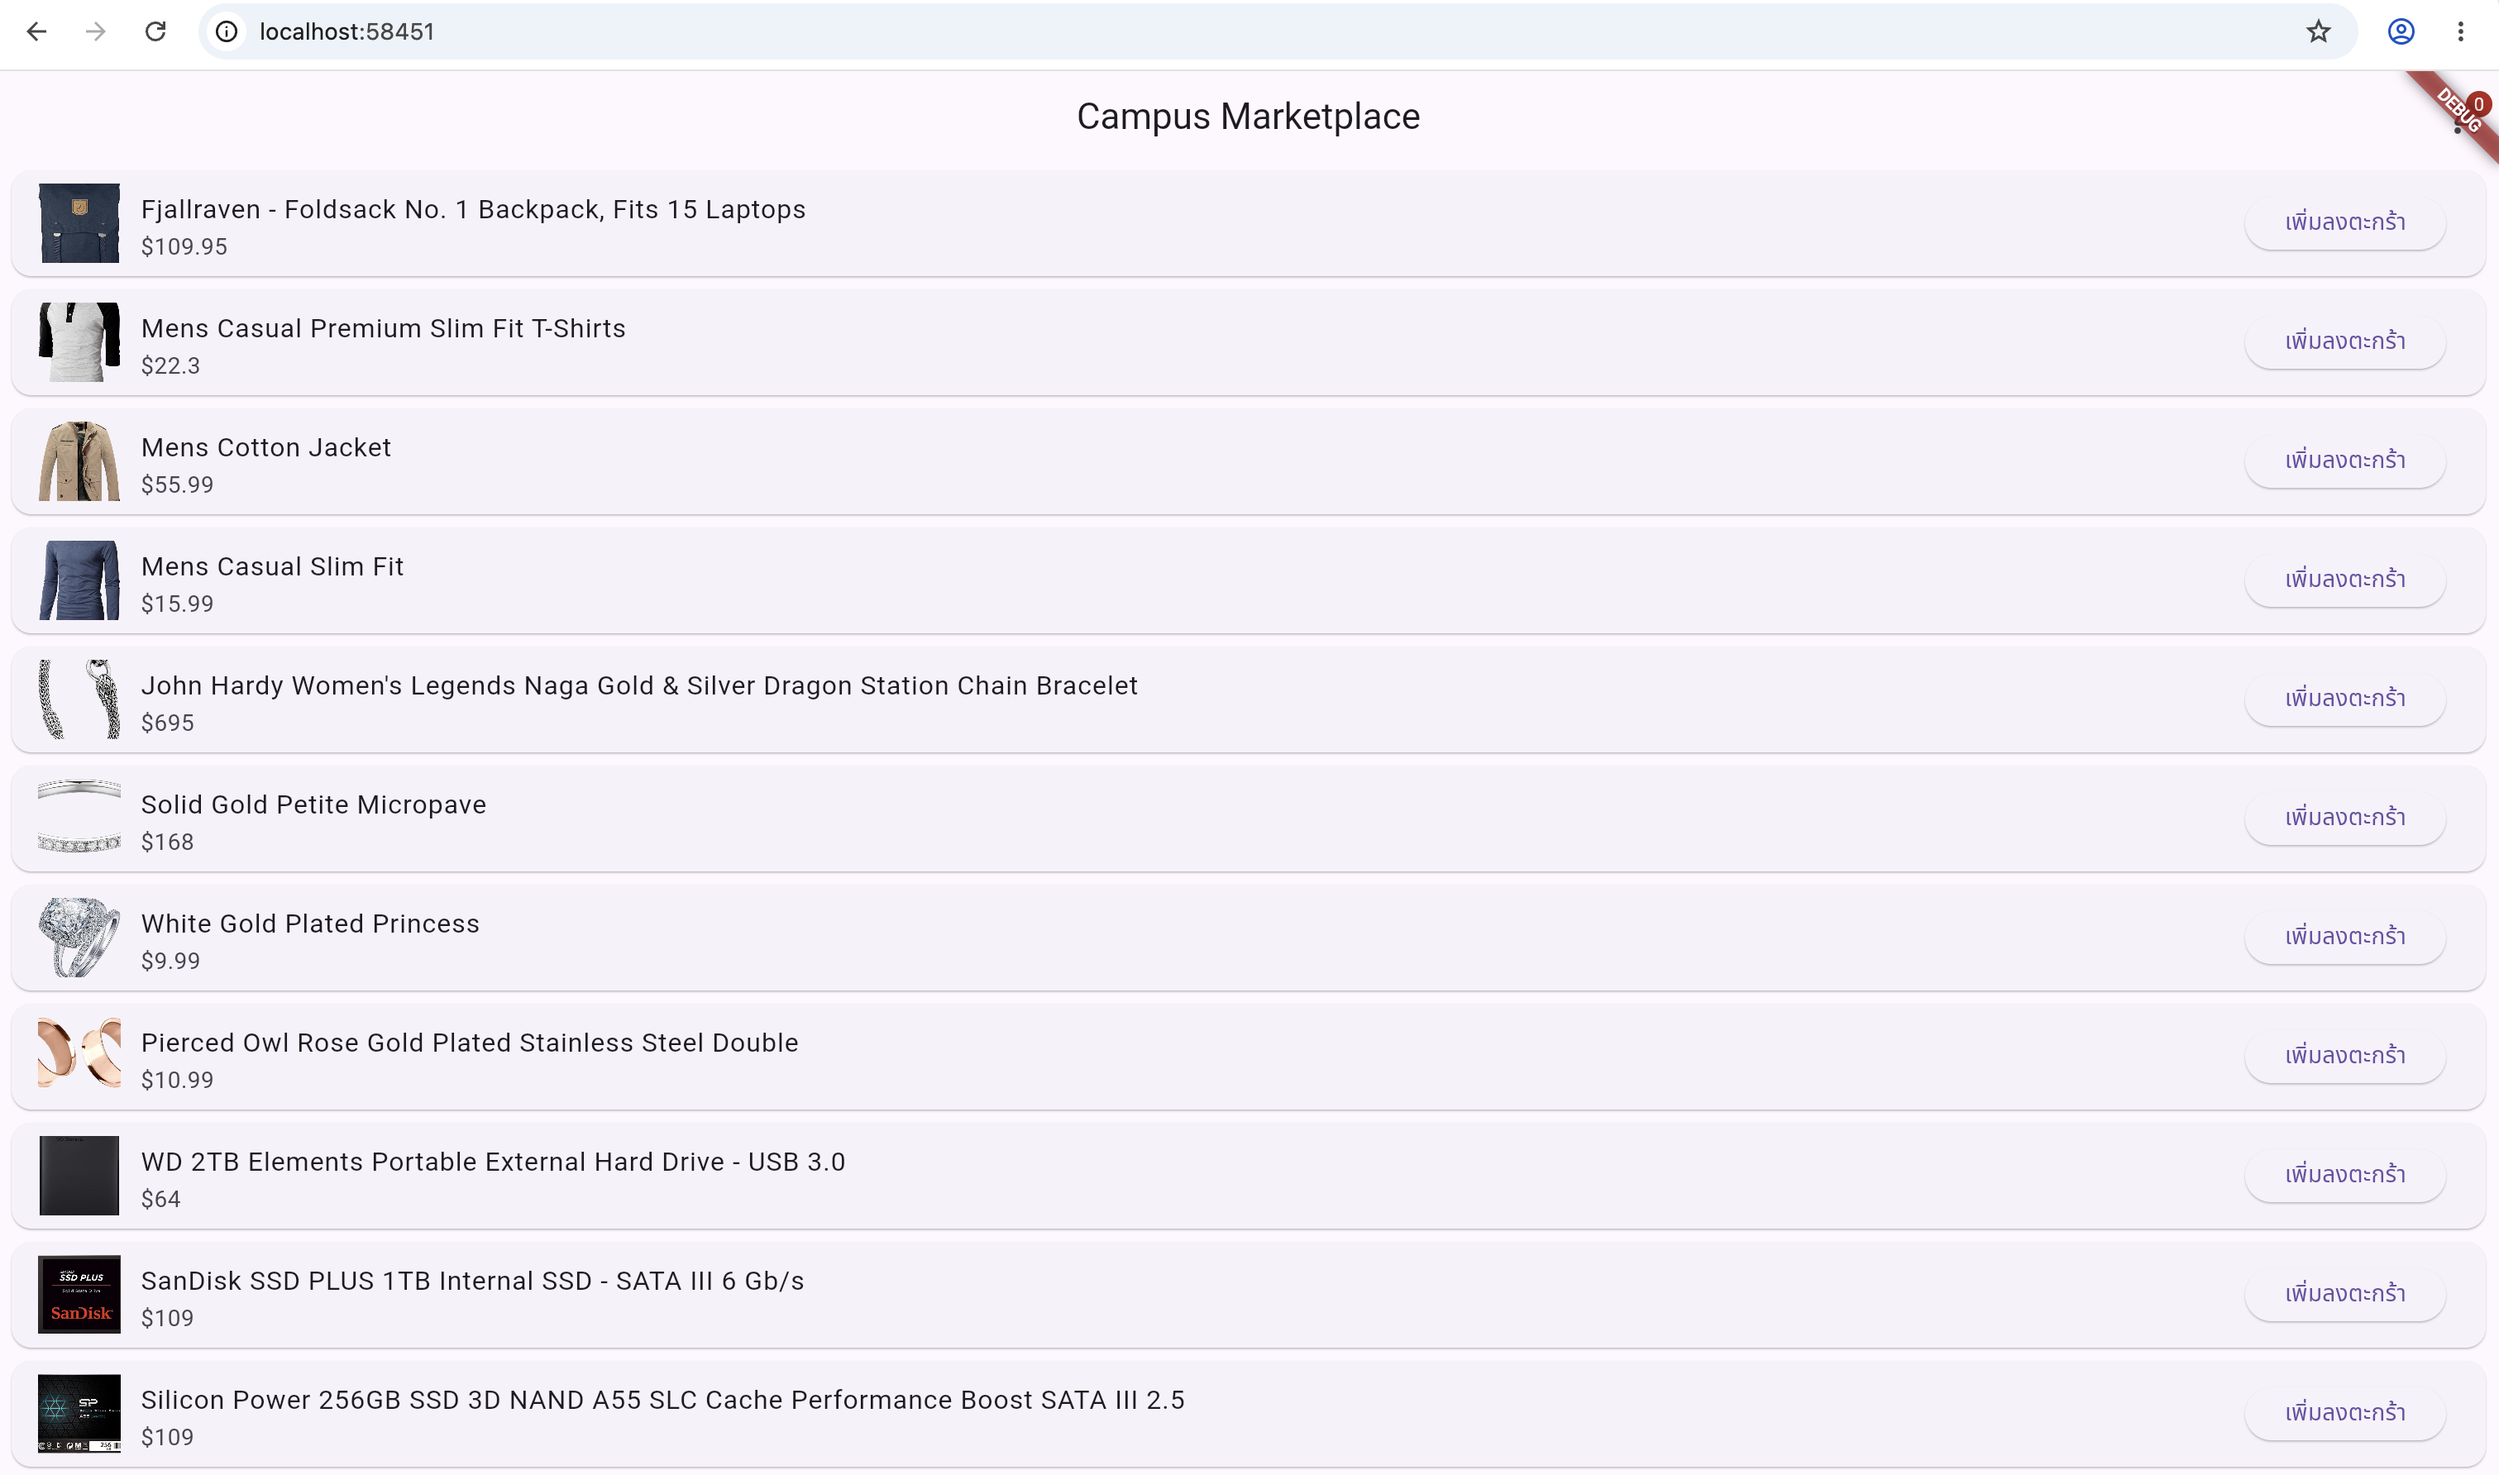
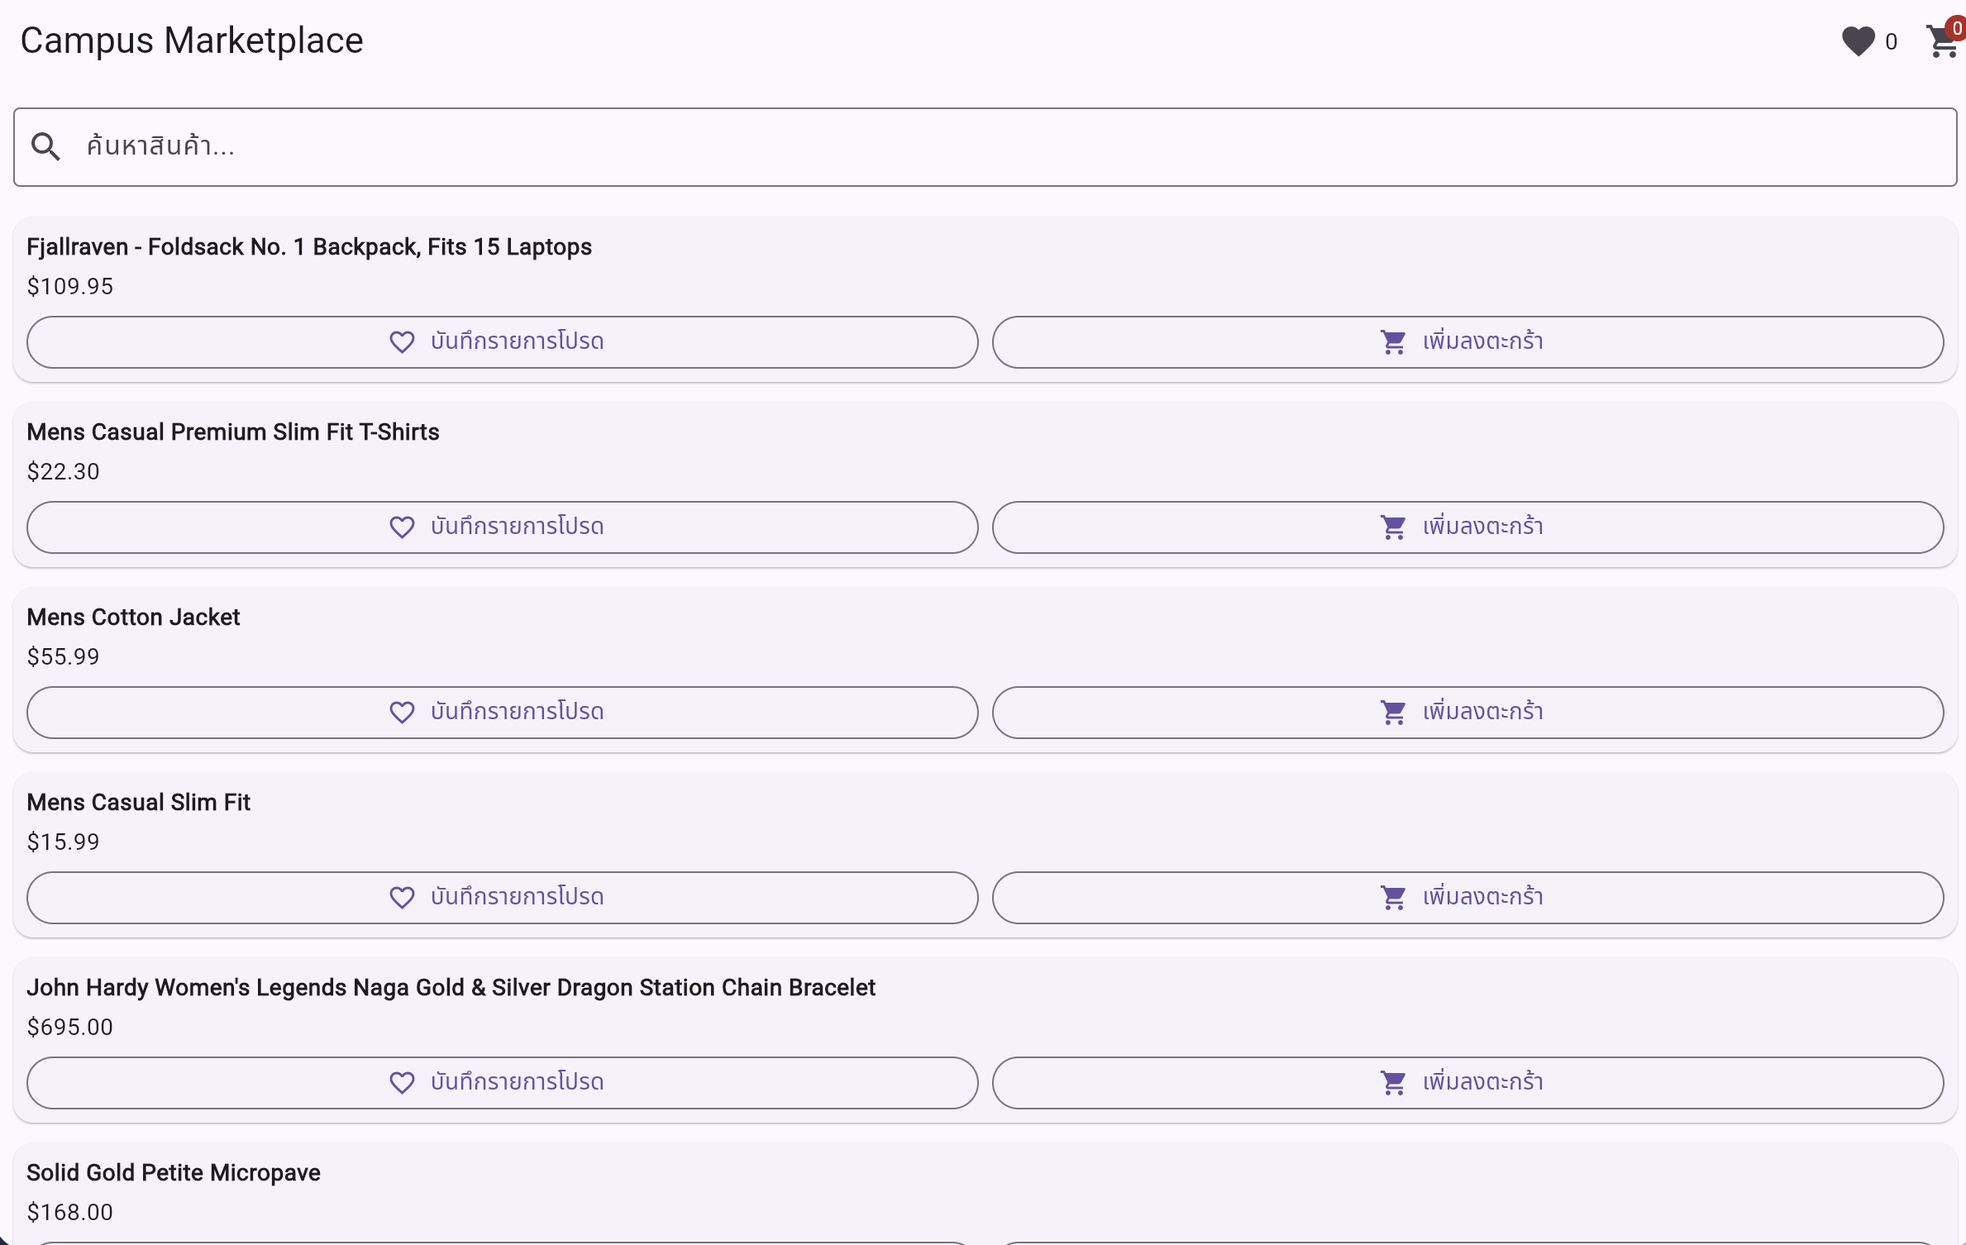
pic add

diff --git a/campus_marketplace/lib/home_page.dart b/campus_marketplace/lib/home_page.dart
@@ -1,9 +1,12 @@
 import 'package:flutter/material.dart';
 import 'package:provider/provider.dart';
 import 'models/item.dart';
+import 'models/favorites_model.dart';
 import 'models/cart_model.dart';
-import 'repositories/item_repository.dart';
+import 'widgets/item_list_section.dart';
+import 'favorites_page.dart';
 import 'checkout_page.dart';
+import 'repositories/item_repository.dart';
 
 class HomePage extends StatefulWidget {
   final ItemRepository repository;
@@ -14,6 +17,7 @@ class HomePage extends StatefulWidget {
 }
 
 class _HomePageState extends State<HomePage> {
+  String _searchQuery = '';
   late Future<List<Item>> _itemsFuture;
 
   @override
@@ -28,6 +32,19 @@ class _HomePageState extends State<HomePage> {
       appBar: AppBar(
         title: const Text('Campus Marketplace'),
         actions: [
+          IconButton(
+            icon: Row(
+              mainAxisSize: MainAxisSize.min,
+              children: [
+                const Icon(Icons.favorite),
+                Text(' ${context.watch<FavoritesModel>().itemCount}'),
+              ],
+            ),
+            onPressed: () => Navigator.push(
+              context,
+              MaterialPageRoute(builder: (_) => const FavoritesPage()),
+            ),
+          ),
           IconButton(
             icon: Badge(
               label: Text('${context.watch<CartModel>().itemCount}'),
@@ -55,28 +72,35 @@ class _HomePageState extends State<HomePage> {
             return const Center(child: Text('ไม่มีสินค้า'));
           }
 
-          return ListView.builder(
-            itemCount: items.length,
-            itemBuilder: (context, index) {
-              final item = items[index];
-              return Card(
-                margin: const EdgeInsets.symmetric(horizontal: 8, vertical: 4),
-                child: ListTile(
-                  leading: Image.network(item.imageUrl, width: 50, height: 50, fit: BoxFit.cover),
-                  title: Text(item.title, maxLines: 1, overflow: TextOverflow.ellipsis),
-                  subtitle: Text('\$${item.price}'),
-                  trailing: ElevatedButton(
-                    onPressed: () {
-                      context.read<CartModel>().add(item);
-                      ScaffoldMessenger.of(context).showSnackBar(
-                        SnackBar(content: Text('เพิ่ม ${item.title} ลงตะกร้าแล้ว')),
-                      );
-                    },
-                    child: const Text('เพิ่มลงตะกร้า'),
+          // กรองรายการสินค้าตามคำค้นหา (Ephemeral State)
+          final filteredCatalog = items.where((item) {
+            return item.title.toLowerCase().contains(_searchQuery.toLowerCase());
+          }).toList();
+
+          return Column(
+            children: [
+              Padding(
+                padding: const EdgeInsets.all(12.0),
+                child: TextField(
+                  decoration: const InputDecoration(
+                    hintText: 'ค้นหาสินค้า...',
+                    prefixIcon: Icon(Icons.search),
+                    border: OutlineInputBorder(),
+                    contentPadding: EdgeInsets.symmetric(horizontal: 12, vertical: 8),
                   ),
+                  onChanged: (value) {
+                    setState(() {
+                      _searchQuery = value;
+                    });
+                  },
                 ),
-              );
-            },
+              ),
+              Expanded(
+                child: SingleChildScrollView(
+                  child: ItemListSection(catalog: filteredCatalog),
+                ),
+              ),
+            ],
           );
         },
       ),

diff --git a/campus_marketplace/lib/favorites_page.dart b/campus_marketplace/lib/favorites_page.dart
@@ -1,0 +1,79 @@
+import 'package:flutter/material.dart';
+import 'package:provider/provider.dart';
+import 'models/favorites_model.dart';
+
+class FavoritesPage extends StatelessWidget {
+  const FavoritesPage({super.key});
+
+  void _showClearConfirmDialog(BuildContext context) {
+    showDialog(
+      context: context,
+      builder: (ctx) => AlertDialog(
+        title: const Text('ยืนยันการล้างรายการโปรด'),
+        content: const Text('คุณต้องการลบรายการโปรดทั้งหมดใช่หรือไม่?'),
+        actions: [
+          TextButton(
+            onPressed: () => Navigator.of(ctx).pop(),
+            child: const Text('ยกเลิก'),
+          ),
+          ElevatedButton(
+            style: ElevatedButton.styleFrom(
+              backgroundColor: Colors.red,
+              foregroundColor: Colors.white,
+            ),
+            onPressed: () {
+              context.read<FavoritesModel>().clear();
+              Navigator.of(ctx).pop();
+              ScaffoldMessenger.of(context).showSnackBar(
+                const SnackBar(content: Text('ล้างรายการโปรดทั้งหมดเรียบร้อยแล้ว')),
+              );
+            },
+            child: const Text('ล้างทั้งหมด'),
+          ),
+        ],
+      ),
+    );
+  }
+
+  @override
+  Widget build(BuildContext context) {
+    final favorites = context.watch<FavoritesModel>();
+
+    return Scaffold(
+      appBar: AppBar(
+        title: const Text('รายการโปรดของฉัน'),
+        actions: [
+          if (favorites.items.isNotEmpty)
+            IconButton(
+              icon: const Icon(Icons.delete_sweep),
+              tooltip: 'ล้างรายการโปรดทั้งหมด',
+              onPressed: () => _showClearConfirmDialog(context),
+            ),
+        ],
+      ),
+      body: favorites.items.isEmpty
+          ? const Center(child: Text('ยังไม่มีสินค้าที่บันทึกไว้'))
+          : ListView.builder(
+              itemCount: favorites.items.length,
+              itemBuilder: (context, index) {
+                final item = favorites.items[index];
+                return ListTile(
+                  title: Text(item.title),
+                  subtitle: Text('฿${item.price.toStringAsFixed(0)}'),
+                  trailing: IconButton(
+                    icon: const Icon(Icons.delete_outline),
+                    onPressed: () => context.read<FavoritesModel>().remove(item),
+                  ),
+                );
+              },
+            ),
+      bottomNavigationBar: Padding(
+        padding: const EdgeInsets.all(12),
+        child: Text(
+          'มูลค่ารวม: ฿${favorites.totalValue.toStringAsFixed(0)}',
+          style: Theme.of(context).textTheme.titleMedium,
+        ),
+      ),
+    );
+  }
+}

diff --git a/campus_marketplace/lib/widgets/item_card.dart b/campus_marketplace/lib/widgets/item_card.dart
@@ -1,0 +1,68 @@
+import 'package:flutter/material.dart';
+import 'package:provider/provider.dart';
+import '../models/item.dart';
+import '../models/favorites_model.dart';
+import '../models/cart_model.dart';
+
+class ItemCard extends StatelessWidget {
+  final Item item;
+
+  const ItemCard({super.key, required this.item});
+
+  @override
+  Widget build(BuildContext context) {
+    final favorites = context.watch<FavoritesModel>();
+    final cart = context.watch<CartModel>();
+    final alreadySaved = favorites.items.any((i) => i.id == item.id);
+    final alreadyInCart = cart.items.any((i) => i.id == item.id);
+
+    return Card(
+      margin: const EdgeInsets.symmetric(horizontal: 12, vertical: 6),
+      child: Padding(
+        padding: const EdgeInsets.all(8.0),
+        child: Column(
+          crossAxisAlignment: CrossAxisAlignment.start,
+          children: [
+            Text(item.title, style: const TextStyle(fontWeight: FontWeight.bold)),
+            const SizedBox(height: 4),
+            Text('\$${item.price.toStringAsFixed(2)}'),
+            const SizedBox(height: 8),
+            Row(
+              children: [
+                Expanded(
+                  child: OutlinedButton.icon(
+                    onPressed: alreadySaved
+                        ? null
+                        : () {
+                            context.read<FavoritesModel>().add(item);
+                            ScaffoldMessenger.of(context).showSnackBar(
+                              SnackBar(content: Text('บันทึก ${item.title} ไว้ในรายการโปรดแล้ว')),
+                            );
+                          },
+                    icon: Icon(alreadySaved ? Icons.favorite : Icons.favorite_border),
+                    label: Text(alreadySaved ? 'อยู่ในรายการโปรดแล้ว' : 'บันทึกรายการโปรด'),
+                  ),
+                ),
+                const SizedBox(width: 8),
+                Expanded(
+                  child: OutlinedButton.icon(
+                    onPressed: alreadyInCart
+                        ? null
+                        : () {
+                            context.read<CartModel>().add(item);
+                            ScaffoldMessenger.of(context).showSnackBar(
+                              SnackBar(content: Text('เพิ่ม ${item.title} ลงตะกร้าแล้ว')),
+                            );
+                          },
+                    icon: Icon(alreadyInCart ? Icons.check_circle : Icons.shopping_cart),
+                    label: Text(alreadyInCart ? 'อยู่ในตะกร้าแล้ว' : 'เพิ่มลงตะกร้า'),
+                  ),
+                ),
+              ],
+            ),
+          ],
+        ),
+      ),
+    );
+  }
+}

diff --git a/campus_marketplace/lib/main.dart b/campus_marketplace/lib/main.dart
@@ -1,13 +1,17 @@
 import 'package:flutter/material.dart';
 import 'package:provider/provider.dart';
+import 'models/favorites_model.dart';
 import 'models/cart_model.dart';
 import 'repositories/item_repository_api.dart';
 import 'home_page.dart';
 
 void main() {
   runApp(
-    ChangeNotifierProvider(
-      create: (context) => CartModel(),
+    MultiProvider(
+      providers: [
+        ChangeNotifierProvider(create: (context) => FavoritesModel()),
+        ChangeNotifierProvider(create: (context) => CartModel()),
+      ],
       child: const MyApp(),
     ),
   );
@@ -20,6 +24,7 @@ class MyApp extends StatelessWidget {
   Widget build(BuildContext context) {
     return MaterialApp(
       title: 'Campus Marketplace',
+      debugShowCheckedModeBanner: false,
       theme: ThemeData(
         primarySwatch: Colors.blue,
       ),

diff --git a/campus_marketplace/lib/models/favorites_model.dart b/campus_marketplace/lib/models/favorites_model.dart
@@ -1,0 +1,25 @@
+import 'package:flutter/foundation.dart';
+import 'item.dart';
+
+class FavoritesModel extends ChangeNotifier {
+  final List<Item> _items = [];
+
+  List<Item> get items => List.unmodifiable(_items);
+  int get itemCount => _items.length;
+  double get totalValue => _items.fold(0, (sum, i) => sum + i.price);
+
+  void add(Item item) {
+    _items.add(item);
+    notifyListeners();
+  }
+
+  void remove(Item item) {
+    _items.remove(item);
+    notifyListeners();
+  }
+
+  void clear() {
+    _items.clear();
+    notifyListeners();
+  }
+}

diff --git a/campus_marketplace/lib/widgets/item_list_section.dart b/campus_marketplace/lib/widgets/item_list_section.dart
@@ -1,0 +1,19 @@
+import 'package:flutter/material.dart';
+import '../models/item.dart';
+import 'item_card.dart';
+
+class ItemListSection extends StatelessWidget {
+  final List<Item> catalog;
+
+  const ItemListSection({super.key, required this.catalog});
+
+  @override
+  Widget build(BuildContext context) {
+    return ListView.builder(
+      shrinkWrap: true,
+      physics: const NeverScrollableScrollPhysics(),
+      itemCount: catalog.length,
+      itemBuilder: (context, index) => ItemCard(item: catalog[index]),
+    );
+  }
+}

diff --git a/week06_lab_v2_1.md b/week06_lab_v2_1.md
@@ -869,8 +869,12 @@ class _HomePageState extends State<HomePage> {
 
 > ✅ **Checkpoint 7.3** รันแอปแล้วถ่ายภาพหน้าจอ Home ที่แสดงรายการสินค้าจริงจาก Fake Store API ผ่าน `ItemRepositoryApi` (ไม่ใช่ข้อมูล mock up) พร้อมภาพโครงสร้างไฟล์ที่แสดงให้เห็นว่ามีทั้ง `item_repository.dart` (Interface) และ `item_repository_api.dart` (Impl) แยกกันชัดเจน และทดสอบว่าปุ่ม "เพิ่มลงตะกร้า" กับการกดไปหน้า `CheckoutPage` จากสัปดาห์ที่ 5 ยังทำงานได้ปกติกับข้อมูล `Item` ชุดใหม่นี้
 
-![Checkpoint 7.3 - App UI](assets/images/cp7_2.png)
-![Checkpoint 7.3 - File Structure](assets/images/cp7_3.png)
+![Checkpoint 7.3 - App UI 1](assets/images/cp7_2.png)
+![Checkpoint 7.3 - App UI 2](assets/images/cp7_3.png)
+![Checkpoint 7.3 - App UI 3](assets/images/cp7_4.png)
+![Checkpoint 7.3 - App UI 4](assets/images/cp7_5.png)
+![Checkpoint 7.3 - App UI 5](assets/images/cp7_6.png)
+![Checkpoint 7.3 - File Structure](assets/images/cp7_7.png)
 
 
 ---
